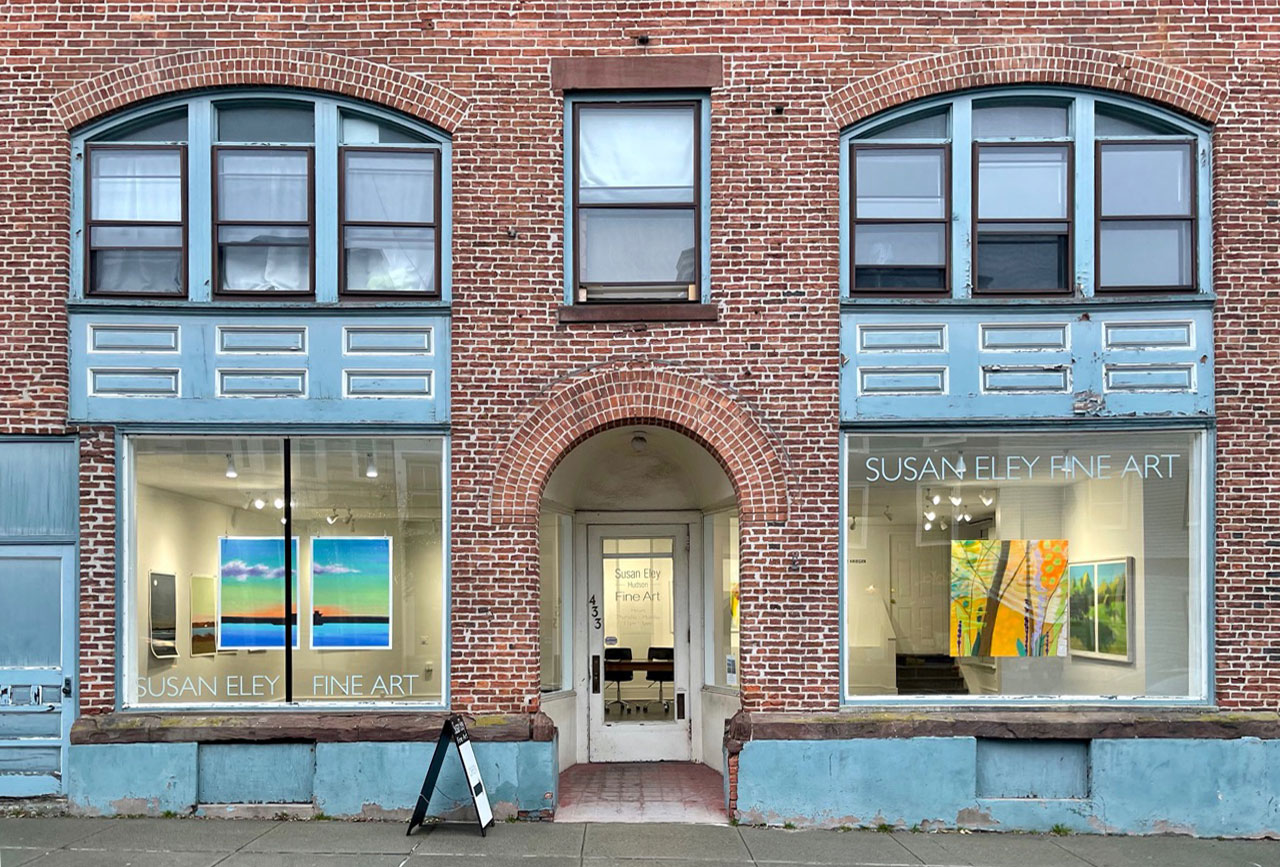
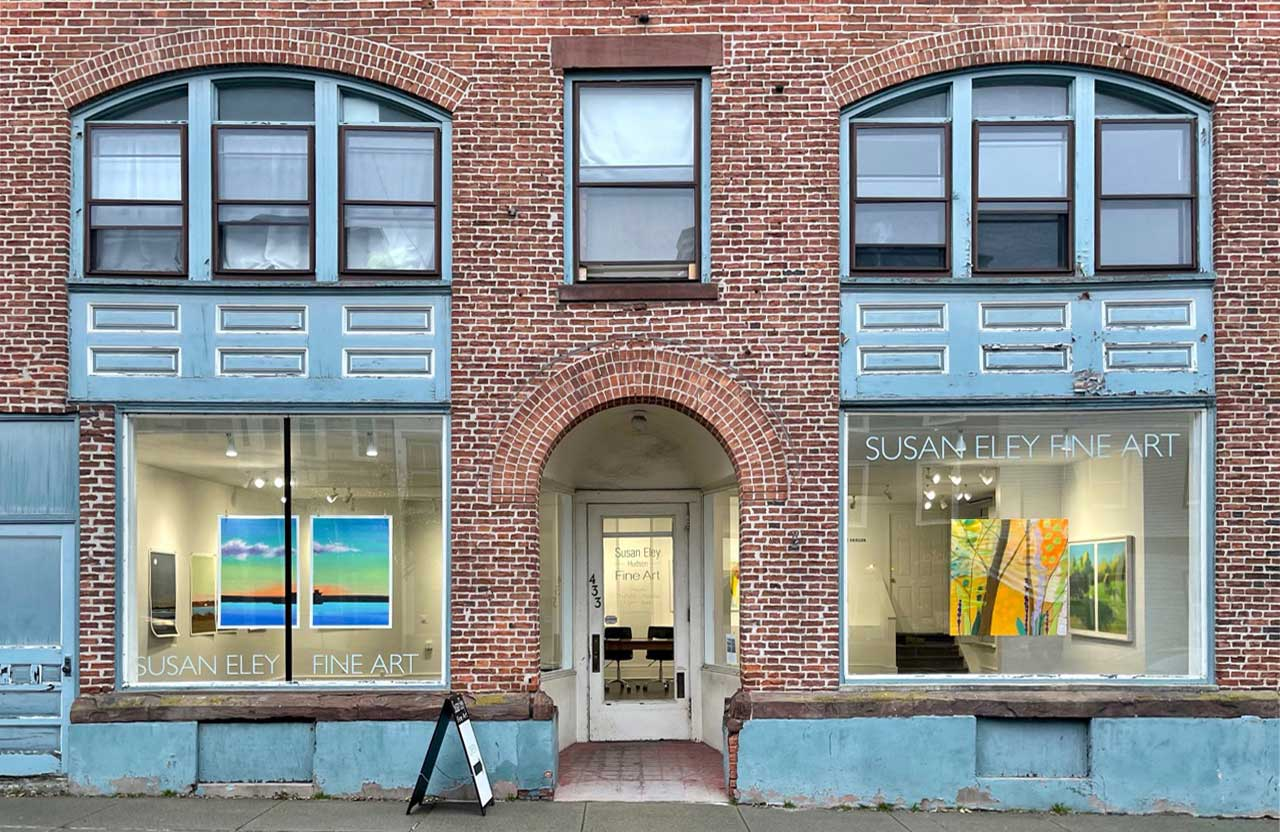
NOJIRA SEFA

diff --git a/themes/sefa/views/About/Gallery.php b/themes/sefa/views/About/Gallery.php
@@ -7,7 +7,7 @@
 		<small>Hudson, NY</small>
 	</div>
 	<div class="col-sm-6 fullWidthImg">
-		<?php print caGetThemeGraphic($this->request, 'about_building_cropped.jpg', array('alt' => 'Exterior of Susan Eley Fine Art NYC')); ?>
+		<?php print caGetThemeGraphic($this->request, 'SEFA_NYC.jpg', array('alt' => 'Exterior of Susan Eley Fine Art NYC')); ?>
 		<small>NYC</small>
 	</div>
 </div>
